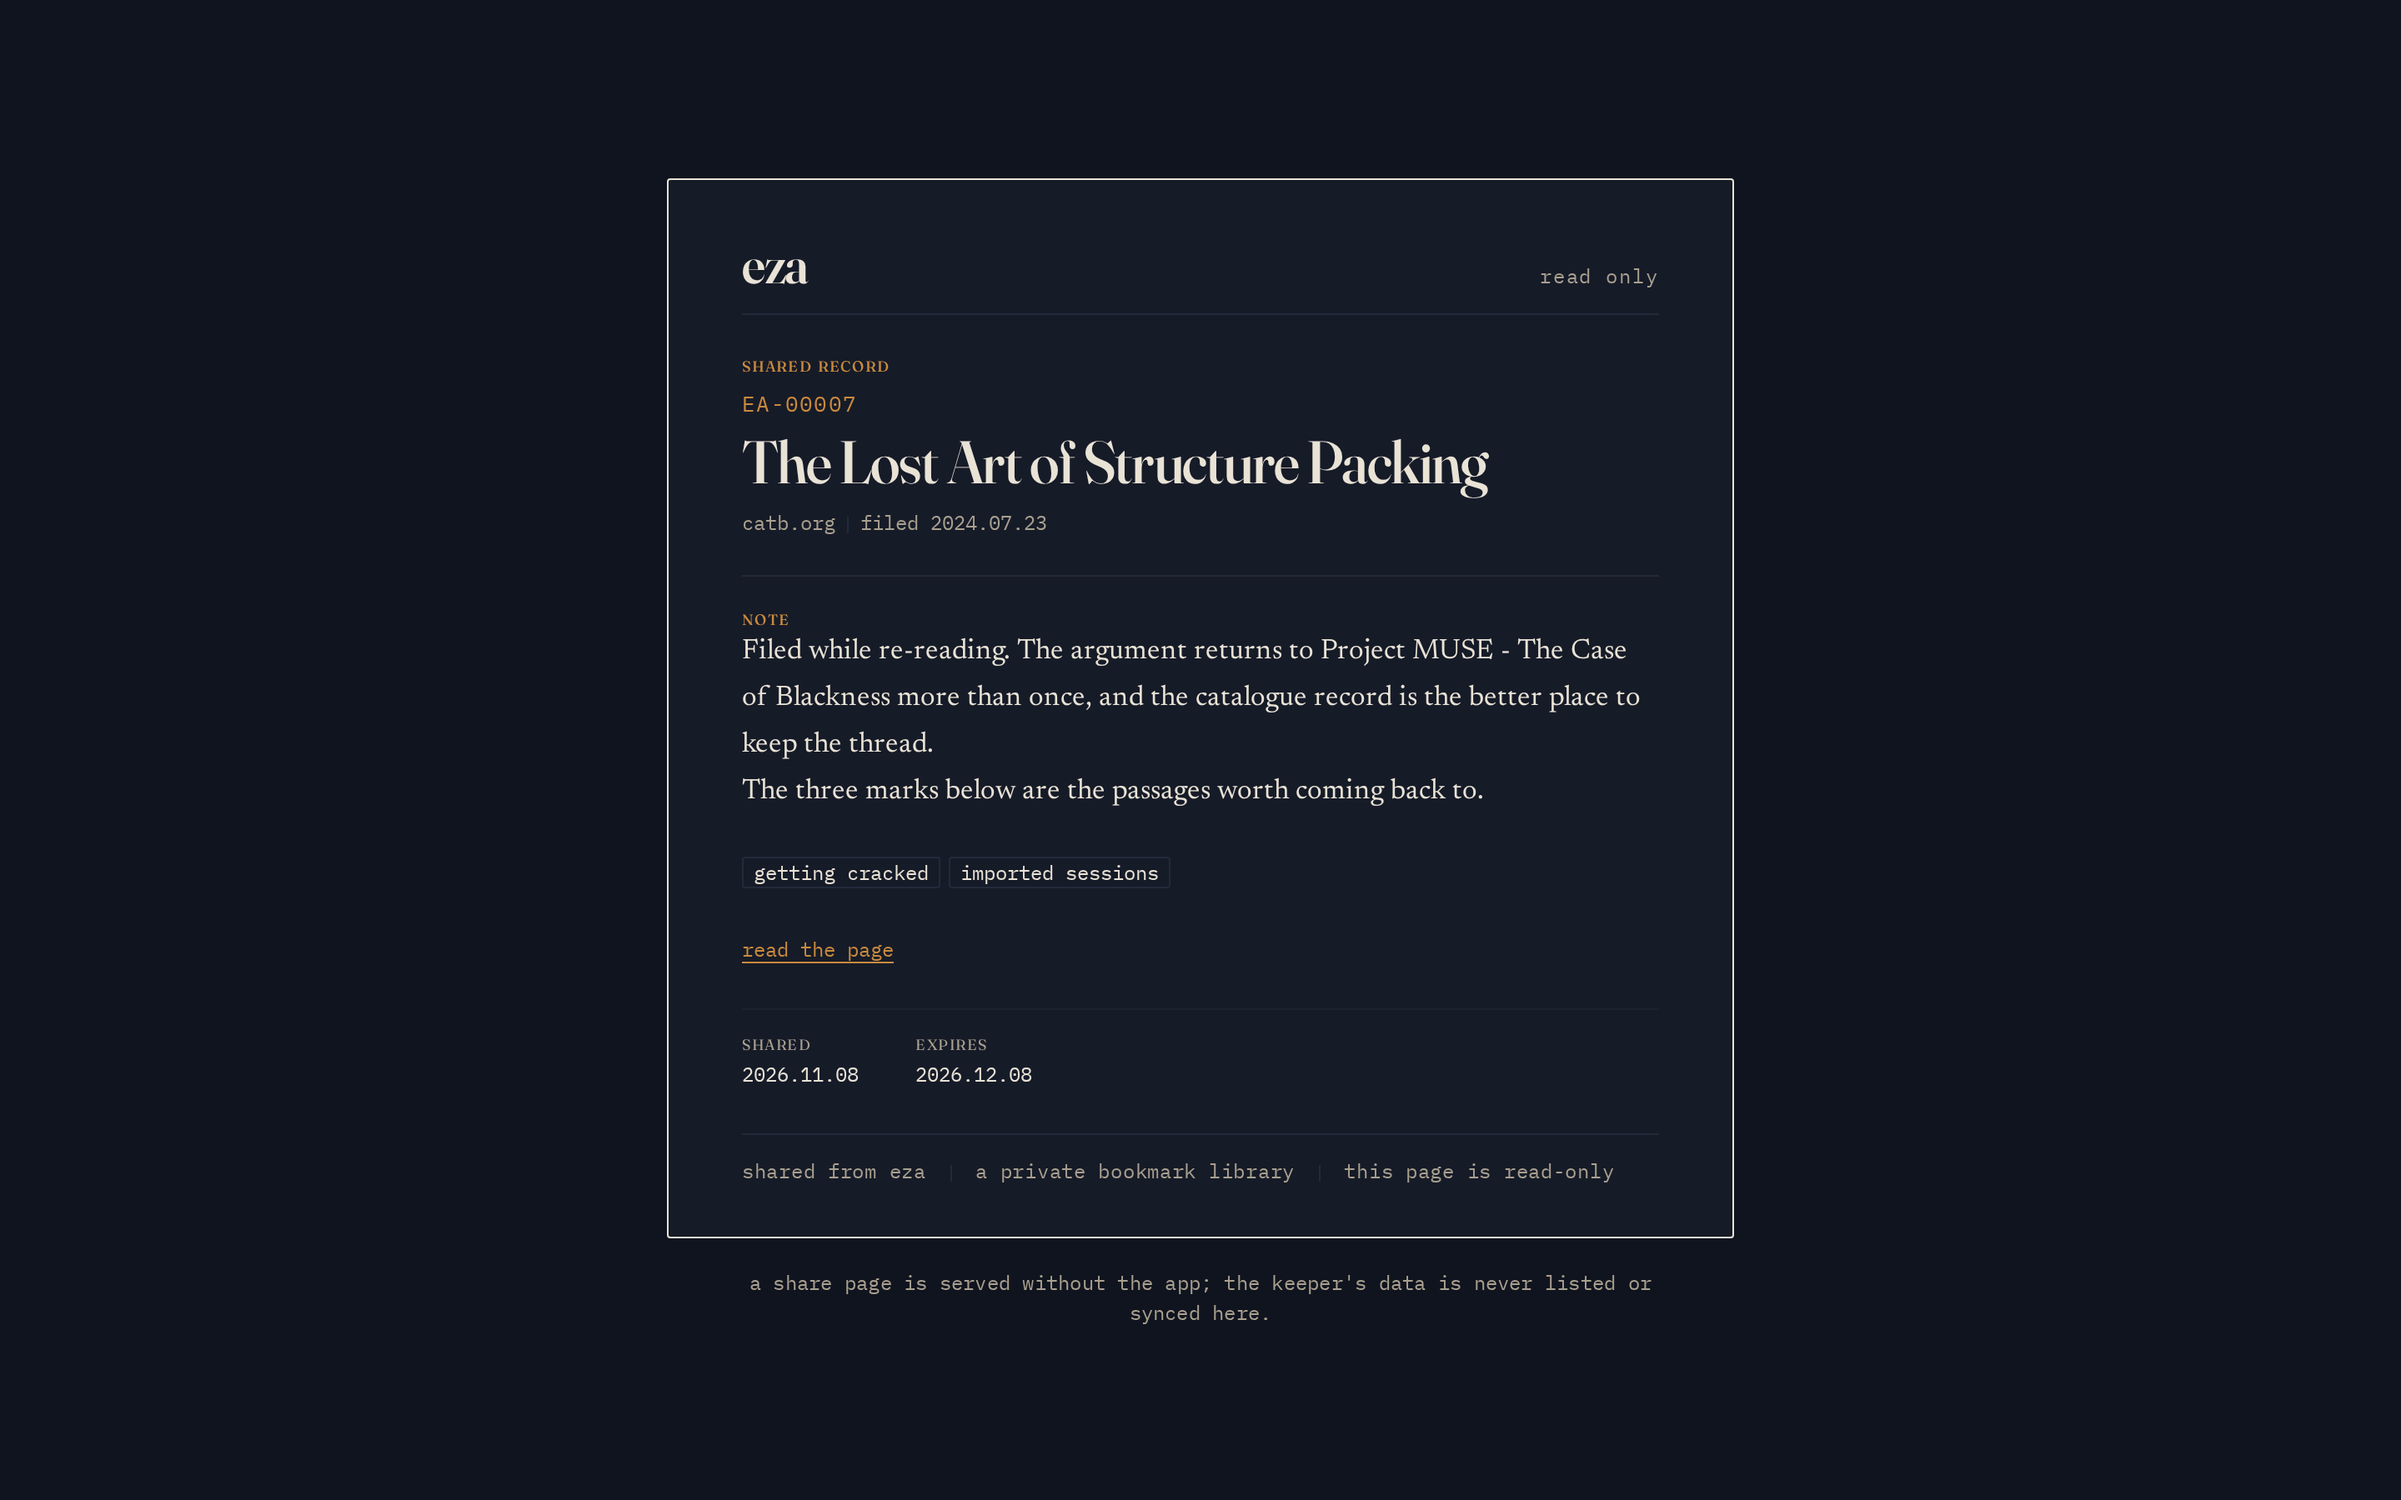
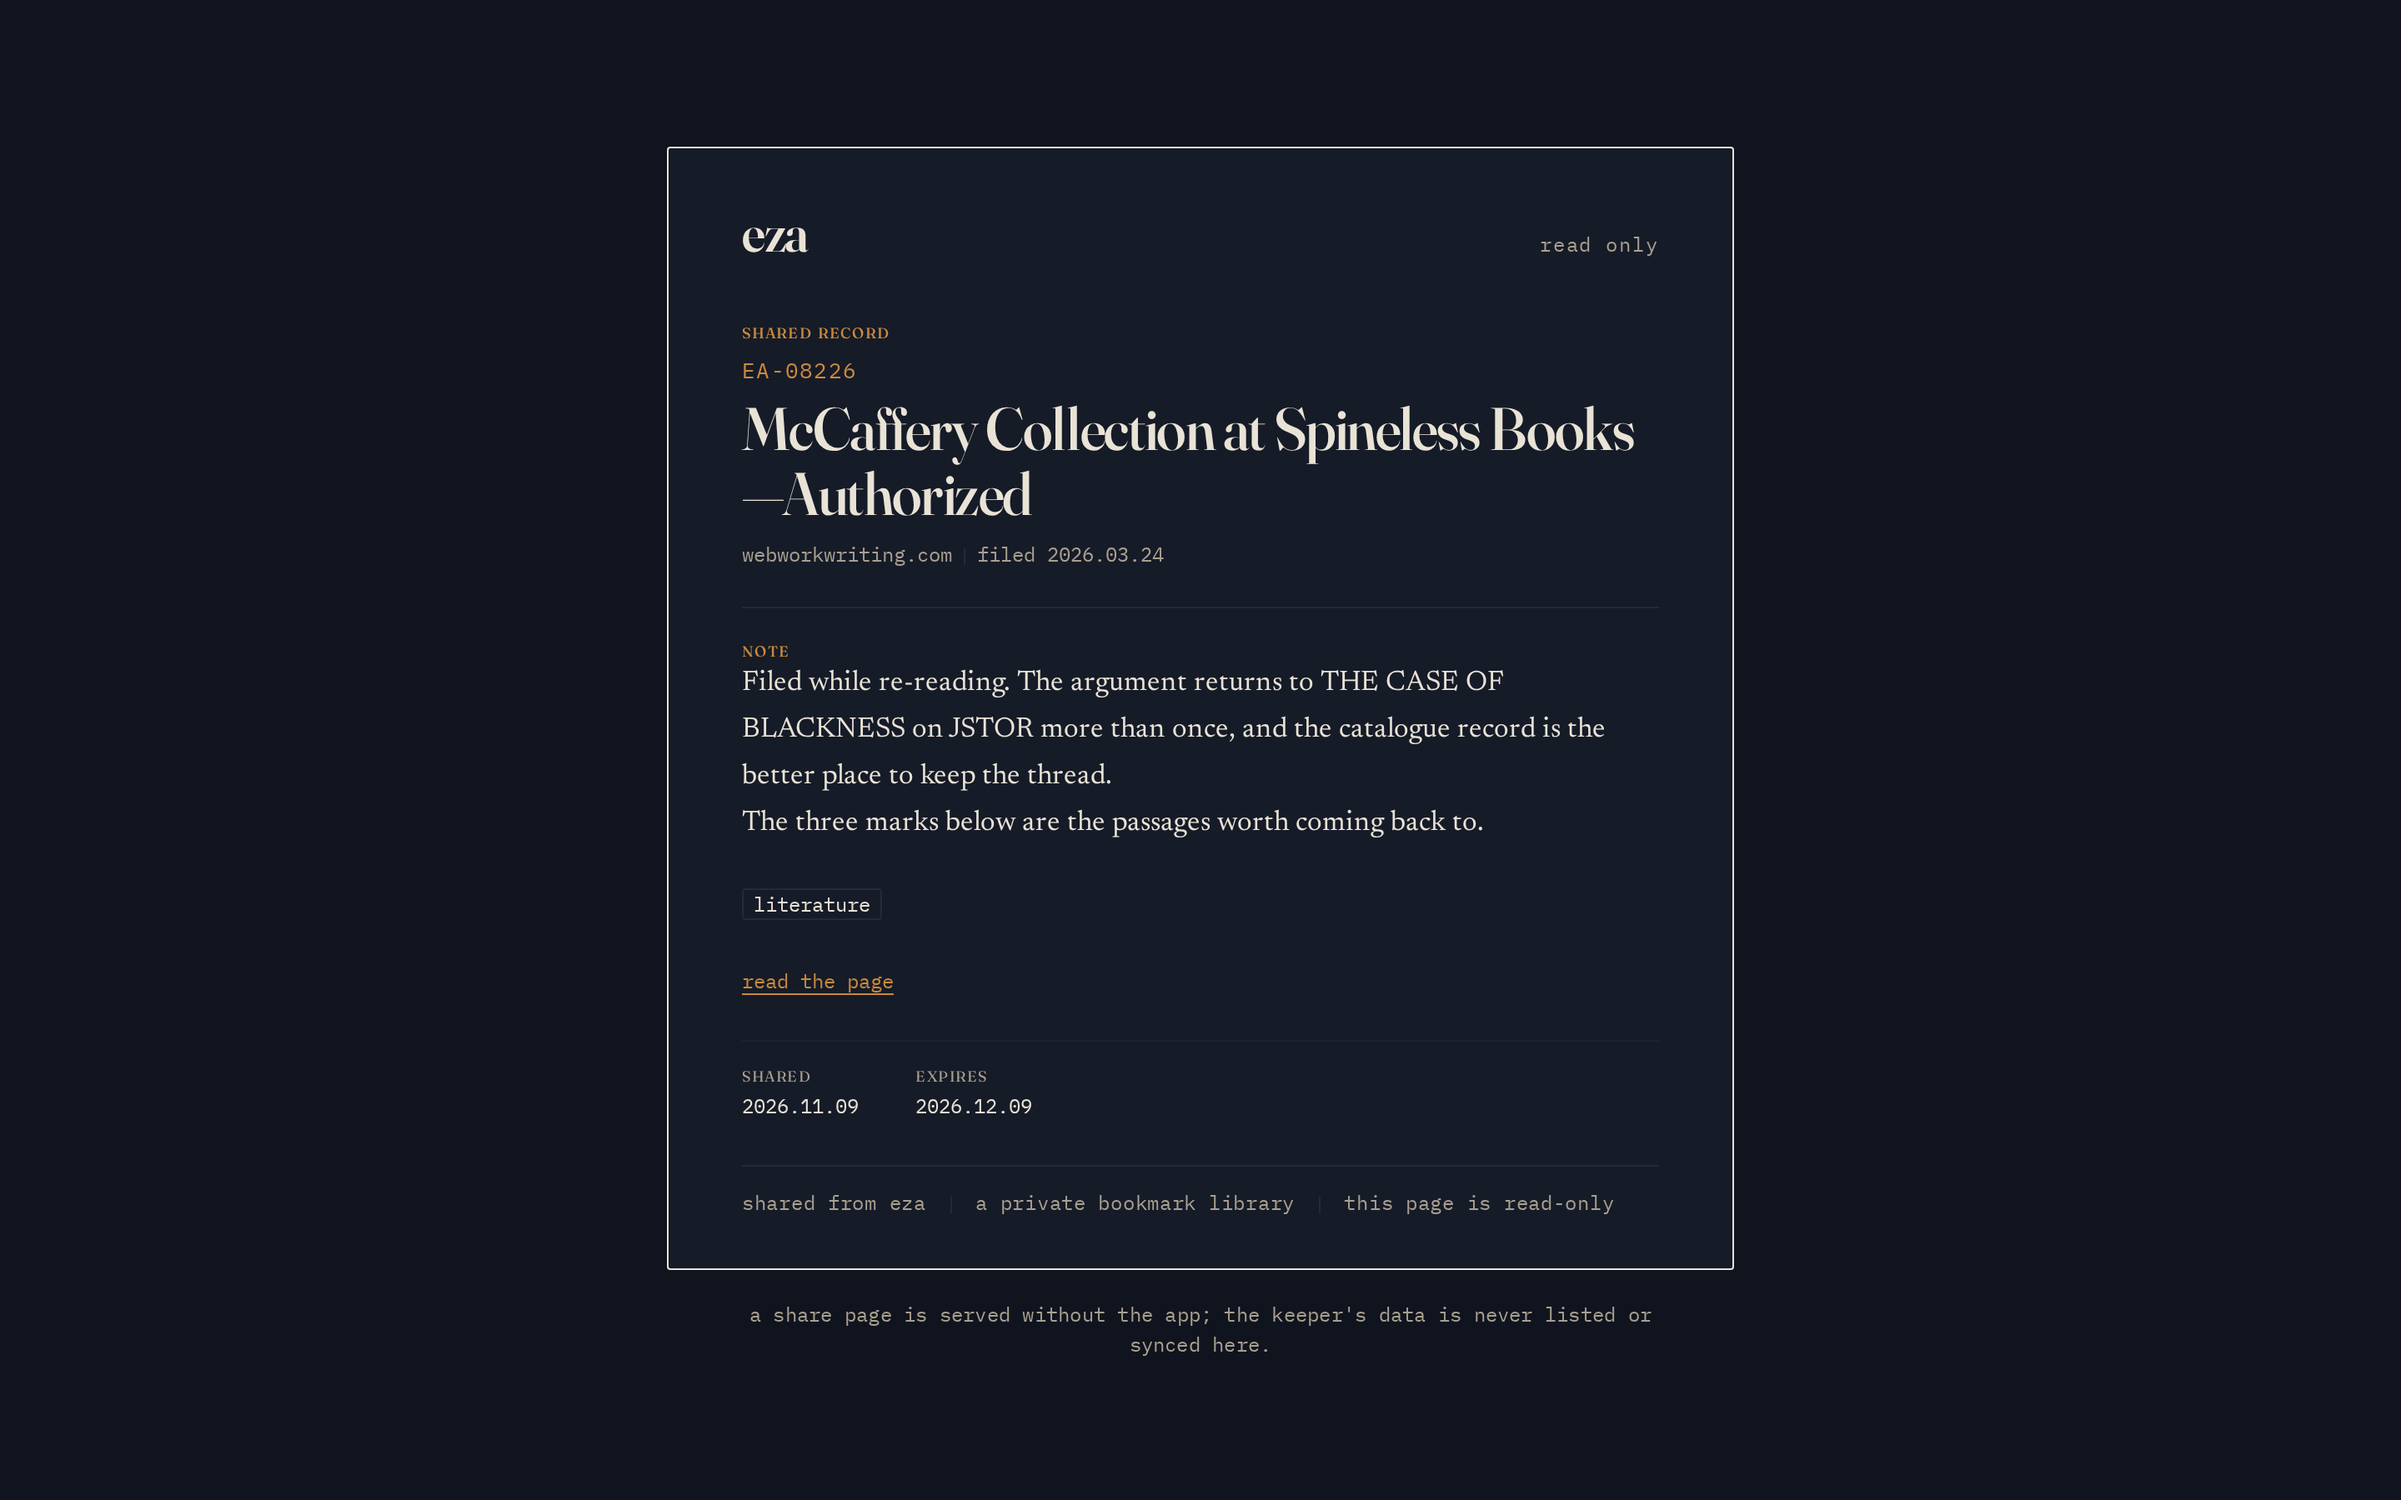
Refresh the README screenshots and the architecture figure
Screenshots: recaptured all seven from the real server, the built WASM bundle
and the 2026-08-14 export through the public API, with the committed ledger
slice on tag:literature. The import assigns ids differently than earlier
captures, so the detail and share shots now use EA-08226 ('McCaffery
Collection at Spineless Books'), a real literary essay with clean extracted
text; the capture script and docs take 8226 as the default and point
EZA_SEED_IMPORT at the private export instead of assuming it is checked in.
The accessions shot is still cropped above the ranked source list.

Architecture: the figure now shows the current shape - one process, the control
database for accounts, one SQLite WAL + FTS5 library per account, and the
per-library background workers - instead of the old single-database box. The
scene is regenerated from docs/figures/generate.py and rendered with the
excalidraw CLI at scale 2.

diff --git a/docs/figures/generate.py b/docs/figures/generate.py
@@ -153,21 +153,23 @@ def _scene(elements):
 
 
 def architecture():
-    elements = [_title("One process, one database")]
+    elements = [_title("One process, one control database, one library per account")]
     elements += _box("Browser: Miso WASM", 60, 150, 300, 110, "blue")
     elements += _box("Static WASM assets", 60, 340, 300, 100, "gray")
     elements += _box("Warp and WAI", 470, 150, 300, 110, "purple")
-    elements += _box("Auth and CSRF", 470, 340, 300, 100, "red")
+    elements += _box("Passwords, passkeys, CSRF", 470, 340, 300, 100, "red")
     elements += _box("JSON API routes", 470, 520, 300, 100, "purple")
-    elements += _box("SQLite WAL + FTS5", 880, 520, 300, 100, "teal")
-    elements += _box("Backups and snapshots", 880, 340, 300, 100, "gray")
+    elements += _box("Control database", 880, 150, 300, 100, "teal")
+    elements += _box("Library SQLite WAL + FTS5", 880, 340, 300, 100, "teal")
+    elements += _box("Background workers", 880, 520, 300, 100, "orange")
     elements += _arrow(360, 205, 470, 205, "HTTP JSON")
     elements += _arrow(360, 390, 470, 260, "assets")
     elements += _arrow(620, 260, 620, 340, "guard")
     elements += _arrow(620, 440, 620, 520, "session")
-    elements += _arrow(770, 570, 880, 570, "SQL")
-    elements += _arrow(1030, 520, 1030, 440, "snapshot")
-    elements += _note("The browser talks to Warp; Warp reads and writes one SQLite file. CLI commands open the same file.")
+    elements += _arrow(770, 390, 880, 200, "accounts")
+    elements += _arrow(770, 570, 880, 390, "SQL")
+    elements += _arrow(1030, 440, 1030, 520, "jobs")
+    elements += _note("Warp resolves the account in the control database, then opens its library. Each library starts enrichment, webhook and favicon workers.")
     return _scene(elements)
 
 

diff --git a/docs/screenshots/README.md b/docs/screenshots/README.md
@@ -38,24 +38,28 @@ not appear in the public image:
    SQLite file:
 
    ```
-   EZA_BASE=http://localhost:8100 EZA_DB=.eza-scratch-shots/eza.db \
-   EZA_SHOT_QUERY="tag:literature" \
+   EZA_BASE=http://localhost:8100 EZA_DB=.eza-scratch-shots/users/1/eza.db \
+   EZA_SHOT_QUERY="tag:literature" EZA_FEATURE_ID=8226 \
+   EZA_SEED_IMPORT=/path/to/bookmarks_14_08_2026.html \
      node tests/e2e/capture-screenshots.mjs
    ```
 
    The committed ledger shots use `EZA_SHOT_QUERY="tag:literature"`: the
    newest rows in the real export are forum and video saves, so a query gives
    a representative slice while the masthead still counts 8,905 entries.
+   The export itself is private and is not checked in; point
+   `EZA_SEED_IMPORT` at it, or let the script fall back to the demo set.
 
 3. Look at the seven PNGs before committing them.
 
    `EZA_FEATURE_ID` selects the record used for the detail and share shots;
-   the default `7` is the structure-packing article in this export. Enrich it
+   the default `8226` is "McCaffery Collection at Spineless Books—Authorized"
+   in this export, a real literary essay with clean extracted text. Enrich it
    first if a fresh scratch database has no extracted text:
 
    ```
-   EZA_DATA_DIR=.eza-scratch-shots EZA_DB=.eza-scratch-shots/eza.db \
-     cabal run eza-bookmarks -- enrich --id 7
+   EZA_DATA_DIR=.eza-scratch-shots cabal run eza-bookmarks -- \
+     enrich --user e2e --id 8226
    ```
 
 ## What the script seeds
@@ -65,10 +69,10 @@ POSTs a local `bookmarks.html` export as multipart form data to
 `/api/v1/import`. When the export is missing it falls back to a 14-bookmark
 demo set.
 
-The detail shot uses record `EA-00007` ("The Lost Art of Structure Packing")
-and its real enrichment output. It waits for extraction, then adds a note and
-three highlights through the public API so the reading spread shows the
-design's marks. An explicit `EZA_SEED_READER=1` enables the old fixture-seeding escape
+The detail shot uses record `EA-08226` ("McCaffery Collection at Spineless
+Books—Authorized") and its real enrichment output. It waits for extraction,
+then adds a note and three highlights through the public API so the reading
+spread shows the design's marks. An explicit `EZA_SEED_READER=1` enables the old fixture-seeding escape
 hatch for a demo only; it is off by default and must not be used for the
 checked-in reference screenshots. `EZA_SHOT_QUERY` narrows the ledger shots to
 a query if a representative slice is wanted.
